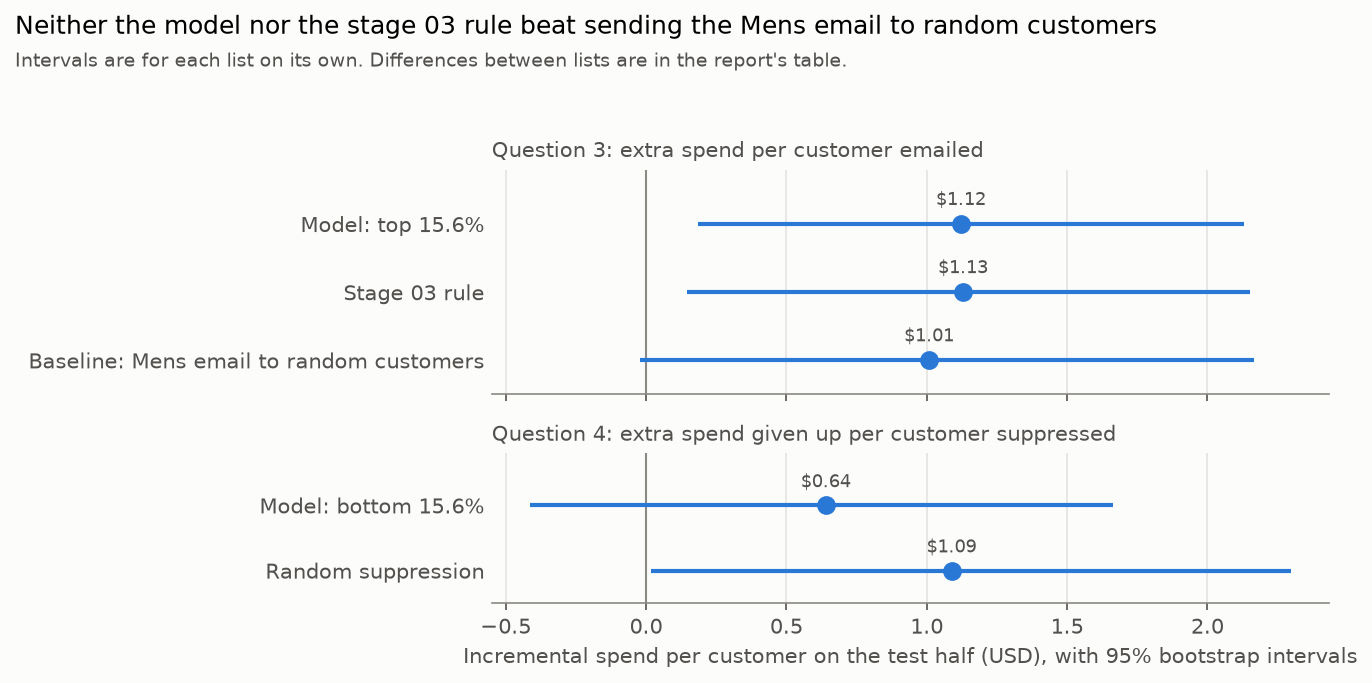
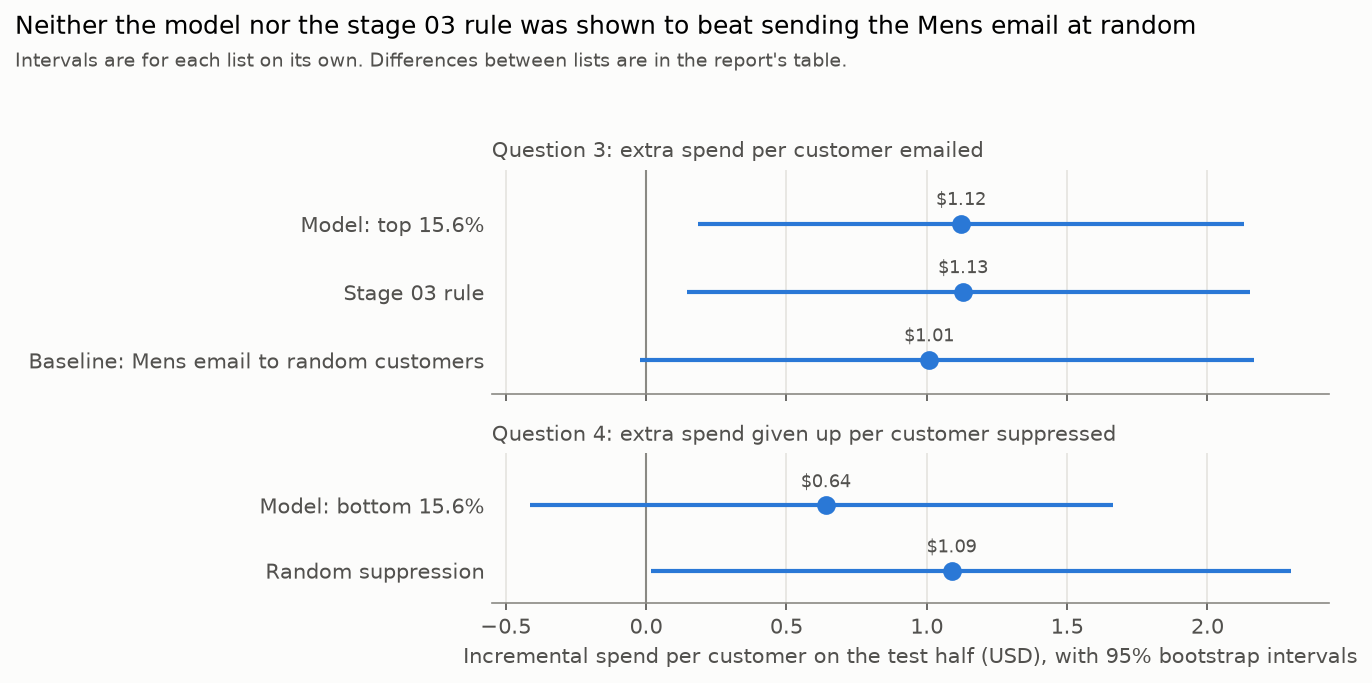
Re-examine and correct stage 03-04 reports before stage 05
Correct several documents: the stage 03-04 reports and notebooks,
one figure, the README and the decision log.

Changed region(s): [[0.3673, 0.0, 0.8878, 0.0615]]

diff --git a/reports/04_01_uplift_models.md b/reports/04_01_uplift_models.md
@@ -2,11 +2,11 @@
 
 ## Question
 
-Stage 03 built a targeting rule from two customer features, past-year spend and past purchases, and it did not beat sending the Mens email to a random 10,000 customers. **This stage asks whether a model that uses all seven pre-campaign features can do better.** It informs challenge questions 3 and 4, but is not one of the original questions.
+Stage 03 built a targeting rule from two customer features, past-year spend and past purchases, and it was not shown to beat sending the Mens email to a random 10,000 customers. **This stage asks whether a model that uses all seven pre-campaign features can do better.** It informs challenge questions 3 and 4, but is not one of the original questions.
 
 ## Approach
 
-Every choice below was **fixed before any model was fitted**. The reasons are summarized here; the dated discussion is in [`DECISIONS.md`](../DECISIONS.md) (2026-11-16), and the code is in [`notebooks/04_01_uplift_models.ipynb`](../notebooks/04_01_uplift_models.ipynb).
+Every choice below was **fixed before any model was fitted, but after the stage 03 results on the same test half had been seen** (see Limitations). The reasons are summarized here; the dated discussion is in [`DECISIONS.md`](../DECISIONS.md) (2026-11-16), and the code is in [`notebooks/04_01_uplift_models.ipynb`](../notebooks/04_01_uplift_models.ipynb).
 
 1. **Same customers as stage 03:** the same 50:50 split, the same random 10,000 baseline and the same measure, rebuilt by [`src/prepare.py`](../src/prepare.py). A check confirms that the stage 03 numbers are reproduced exactly.
 2. **Two estimates per customer:** each model estimates the extra outcome from the Mens email and from the Womens email, and each customer is assigned the email with the higher estimate, as in stage 03.
@@ -20,9 +20,9 @@ Every choice below was **fixed before any model was fitted**. The reasons are su
 
 ## Answer
 
-**No. The model did not beat sending the Mens email to random customers, so the simple choice is kept.** Its selected customers gained $1.12 each on the test half, against $1.01 for the baseline. **The difference, $0.11, has a 95% interval from -$1.15 to $1.32.** This comparison is limited by sample size: the test half could reliably detect only a difference of about $1.76 per customer.
+**Not shown. The model did not pass the threshold against sending the Mens email to random customers, so the simple choice is kept.** Its selected customers gained $1.12 each on the test half, against $1.01 for the baseline. **The difference, $0.11, has a 95% interval from -$1.15 to $1.32.** This comparison is limited by sample size: the test half could reliably detect only a difference of about $1.76 per customer.
 
-**The model performed almost exactly like the stage 03 rule, and this result does not depend on sample size.** The two gained $1.12 and $1.13. **The interval for their difference, -$0.53 to $0.52, rules out a difference larger than about $0.50 per customer in either direction.** The two lists share most of their customers, so this comparison is far more precise than the comparison with the baseline. Using all seven features, the model put every test customer who had bought both men's and women's merchandise at the top of its list, the cell the stage 03 rule had already ranked first.
+**The model and the stage 03 rule have almost the same estimate, but they are not shown to be equivalent.** The two gained $1.12 and $1.13. The lists share most of their customers, so this comparison is more precise than the one with the baseline, but it is still limited by sample size. **The interval for their difference, -$0.53 to $0.52, still allows a difference of about $0.50 in either direction, roughly two-thirds of the Mens email's average effect.** Using all seven features, the model's top 15.6% included every test customer who had bought both men's and women's merchandise, the cell the stage 03 rule had already ranked first.
 
 **The model's suppression list is the one result that points to a gain, but it is not confirmed.** Suppressing the model's bottom 15.6% gives up $0.64 per customer, against $1.09 for random suppression. The difference, $0.45, has an interval from -$0.91 to $1.90, and the test half could reliably detect only a difference of about $2.00. If a campaign ever has to leave customers out, this list would be worth testing in a new experiment (see below).
 
@@ -99,7 +99,7 @@ Scores are the incremental spend per selected customer within each held-out fold
 
 ## What this means
 
-- **For questions 3 and 4:** neither a two-feature rule nor a seven-feature model selected better customers than a random list. The recommendation from stage 03 stands: send the Mens email, and, since every cell cleared break-even, send it as widely as the budget allows.
+- **For questions 3 and 4:** neither a two-feature rule nor a seven-feature model was shown to select better customers than a random list. The recommendation from stage 03 stands: send the Mens email as widely as the budget allows. **This rests on its average effect across all customers** ($0.77, 95% CI $0.49 to $1.05, against a $0.02 break-even), not on evidence that it pays in every cell.
 - **For the business:** building and maintaining a targeting model would add cost without a demonstrated gain on this data.
 - **For stage 06:** the profit and sensitivity analysis uses the Mens email sent broadly as the main case.
 - **For a follow-up experiment:** the suppression list could be tested by randomizing email within two lists, the model's bottom 15.6% and a random 15.6%: half of each list receives the email and half does not. The difference between the two lists' email effects is the spend the model's list saves. **Detecting $0.45 per customer would need about 71,000 customers in each list, or a customer base of about 450,000,** roughly seven times this dataset. This is an approximation based on the overall standard deviation of spend.
@@ -107,7 +107,8 @@ Scores are the incremental spend per selected customer within each held-out fold
 ## Limitations
 
 - **Only two models were tried, with fixed settings.** Tuning or other methods might do better, but tuning on about 290 training buyers would itself risk fitting noise.
-- **The test half is small for comparisons with the baseline.** About 5,000 customers fall in each list, and only about a third of them received no email. A real gain smaller than about $1.76 per customer would likely go undetected. The comparison with the stage 03 rule is not limited in this way.
+- **The test half is small for comparisons with the baseline.** About 5,000 customers fall in each list, and only about a third of them received no email. A real gain smaller than about $1.76 per customer would likely go undetected. The comparison with the stage 03 rule is more precise, but it too could reliably detect only a difference of about $0.75.
+- **The test half was not untouched.** Its stage 03 results, including the effect in each cell, had been seen before this stage was designed, and they may have influenced the design. No stage 04 model was trained or selected on the test half, but **its result is not a fully independent confirmation**. That would need new data.
 - **The choice among the six combinations is uncertain.** Their cross-validation scores overlap heavily, so a different split could have chosen a different winner.
 - **The suppression result is a lead, not a finding.** Confirming it would need a new experiment that suppresses the model's list for some customers and a random list for others.
 - **The baseline is one random draw, outcomes cover two weeks, and the data is from 2008,** as in stage 03.

diff --git a/README.md b/README.md
@@ -9,8 +9,8 @@ An independent project that uses a public randomized experiment of 64,000 retail
 - **Both emails raised spend over the two weeks after the campaign:** by about $0.77 per customer for the Mens email and $0.42 for the Womens email ([average effects](reports/01_01_average_effects.md)).
 - **The Mens email outperformed the Womens email** on spend, visits and conversion. Its lead on spend is significant but imprecisely estimated.
 - **None of the six pre-specified segment hypotheses was supported** ([segment effects](reports/02_01_segment_effects.md)). The emails raised spend in almost every segment, and the data cannot show that they worked better in any of them.
-- **A first targeting rule did not beat sending the Mens email to a random 10,000 customers** on held-out data ([targeting rule](reports/03_01_targeting_rule.md)). Its top cell gained $2.27 per customer in training but $1.37 on the test half, a case of regression to the mean.
-- **Uplift models using all seven features did no better** ([uplift models](reports/04_01_uplift_models.md)). The chosen model selected largely the same customers as the first rule and performed within about $0.50 per customer of it.
+- **A first targeting rule was not shown to beat sending the Mens email to a random 10,000 customers** on held-out data ([targeting rule](reports/03_01_targeting_rule.md)). Its top cell gained $2.27 per customer in training but $1.37 on the test half, a case of regression to the mean.
+- **An uplift model using all seven features was not shown to do better either** ([uplift models](reports/04_01_uplift_models.md)). It selected largely the same customers as the first rule. Their estimates are almost equal, but a difference of about $0.50 per customer in either direction cannot be ruled out.
 
 ## Why this project
 
@@ -63,12 +63,12 @@ These are the original questions from the challenge, quoted verbatim. Answers wi
 | --- | --- | --- |
 | 1 | Which e-mail campaign performed the best, the Mens version, or the Womens version? | [The Mens email](reports/01_01_average_effects.md). Its lead over the Womens email is significant but imprecisely estimated. |
 | 2 | How much incremental sales per customer did the Mens version of the e-mail campaign drive? How much incremental sales per customer did the Womens version of the e-mail campaign drive? | [About $0.77 per customer for the Mens email and $0.42 for the Womens email](reports/01_01_average_effects.md), over two weeks. |
-| 3 | If you could only send an e-mail campaign to the best 10,000 customers, which customers would receive the e-mail campaign? Why? | Provisional: [send the Mens email; the data does not show which 10,000 would respond best](reports/03_01_targeting_rule.md). Neither a rule built from past-year spend and past purchases nor [an uplift model using all seven features](reports/04_01_uplift_models.md) beat a random 10,000 on held-out data. Stage 06 finalizes this answer. |
-| 4 | If you had to eliminate 10,000 customers from receiving an e-mail campaign, which customers would you suppress from the campaign? Why? | Provisional: [no list was shown to cost less to suppress than a random 10,000](reports/03_01_targeting_rule.md). Every customer cell cleared the break-even point under the assumed costs, so sending to more customers may pay more than suppressing any. [An uplift model's suppression list](reports/04_01_uplift_models.md) gave up $0.45 less per customer than random suppression, but this was not significant and would need a new experiment to confirm. |
+| 3 | If you could only send an e-mail campaign to the best 10,000 customers, which customers would receive the e-mail campaign? Why? | Provisional: [send the Mens email; the data does not show which 10,000 would respond best](reports/03_01_targeting_rule.md). Neither a rule built from past-year spend and past purchases nor [an uplift model using all seven features](reports/04_01_uplift_models.md) was shown to beat a random 10,000 on held-out data. Stage 06 finalizes this answer. |
+| 4 | If you had to eliminate 10,000 customers from receiving an e-mail campaign, which customers would you suppress from the campaign? Why? | Provisional: [no list was shown to cost less to suppress than a random 10,000](reports/03_01_targeting_rule.md). Under the assumed costs, the Mens email's average effect is well above break-even, so suppressing customers at random gives up profit on average. This is not shown for every group: on the test half, six of seven customer cells are uncertain. [An uplift model's suppression list](reports/04_01_uplift_models.md) gave up $0.45 less per customer than random suppression, but this was not significant and would need a new experiment to confirm. |
 | 5 | Did the Mens version of the e-mail campaign perform different than the Womens version of the e-mail campaign, across various customer segments? | Partly: [the two emails showed different patterns](reports/02_01_segment_effects.md). The Mens email raised spend for both men's and women's buyers, while the Womens email's extra visits and purchases were concentrated among women's buyers. This contrast was not tested directly. |
 | 6 | Did the campaigns perform different when measured across different metrics, like Visitors, Conversion, and Total Spend? | [Yes, for the Womens email](reports/02_01_segment_effects.md): it raised visits and conversion more among women's buyers, but the difference in spend was not significant. The visit and conversion results are supporting evidence, because secondary metrics are not corrected for multiple testing. |
 | 7 | Did you observe any anomalies, or odd findings? | Partly answered: [spend stops at exactly $499 for 12 buyers](reports/00_01_eda_summary.md), which may indicate a cap, and [no customer under $200 of past-year spend bought both men's and women's merchandise](reports/00_01_eda_summary.md). The causes are unknown. |
-| 8 | Which audience would you target the Mens version to, and the Womens version to, given the results of the test? What data do you have to support your recommendation? | Provisional: [send the Mens email broadly](reports/02_01_segment_effects.md). If the Womens email is used, send it to customers who bought women's merchandise, where its extra visits and purchases were concentrated. [Stage 03](reports/03_01_targeting_rule.md) found no segment rule that beat sending the Mens email at random. The final rule, with costs and margins, comes from stage 06. |
+| 8 | Which audience would you target the Mens version to, and the Womens version to, given the results of the test? What data do you have to support your recommendation? | Provisional: [send the Mens email broadly](reports/02_01_segment_effects.md). If the Womens email is used, send it to customers who bought women's merchandise, where its extra visits and purchases were concentrated. [Stage 03](reports/03_01_targeting_rule.md) did not show that its segment rule beats sending the Mens email at random. The final rule, with costs and margins, comes from stage 06. |
 
 ## Progress
 

diff --git a/reports/03_01_targeting_rule.md b/reports/03_01_targeting_rule.md
@@ -25,13 +25,13 @@ Every choice below was **fixed before the rule was evaluated on held-out data**.
 
 ## Answers
 
-**The emails pay off, and sending the Mens email broadly works as well as any segment rule tested.** The rule did not pass its threshold for either question, so the recommendation falls back to the baseline.
+**The Mens email pays off on average, and the segment rule was not shown to target better than sending it at random.** The rule did not pass its threshold for either question, so the recommendation falls back to the baseline.
 
 **Question 3: send the Mens email. The data does not show which 10,000 customers would respond best.** The rule selected all 6,448 customers with $200 or more of past-year spend who bought both lines, plus 3,552 of those with $200 or more who bought only women's merchandise. On the test half, they gained $1.13 each, against $1.01 for a random 10,000 sent the Mens email. **The difference, $0.12, has a 95% interval from -$1.25 to $1.43, so the rule is not shown to be better.** It is not shown to be worse either: the test half is too small to separate differences this small.
 
 **Question 4: no list of 10,000 was shown to cost less to suppress than a random 10,000.** The rule's list was 10,000 of the 10,178 customers with $200 or more of past-year spend who bought only men's merchandise, where the Mens email's training estimate was lowest ($0.11). On the test half, suppressing them gave up $0.57 per customer, against $1.13 for random suppression, but **the interval for the difference runs from -$1.03 to $2.27**. If customers must be suppressed, random suppression is as well supported as any list tested.
 
-**Sending to more customers may pay more than suppressing any.** Every cell's test estimate is above the $0.02 per customer needed to cover an email, at the assumed 40% margin and $0.008 per email. These costs are assumptions, and stage 06 tests other values.
+**The case for sending broadly rests on the average effect, not on each cell.** Across all customers, the Mens email added $0.77 per customer (95% CI $0.49 to $1.05, [stage 01](01_01_average_effects.md)), which is above the $0.02 needed to cover an email at the assumed 40% margin and $0.008 per email. Suppressing customers at random would therefore give up profit on average. **This does not show that every cell is worth emailing: on the test half, one of the seven cells is worth sending and six are uncertain.** All seven point estimates are above $0.02, but six of the intervals include it. The costs are assumptions, and stage 06 tests other values.
 
 ## Results on the test half
 
@@ -50,15 +50,17 @@ The baseline's $1.01 is above the Mens email's overall effect of $0.77 in [stage
 
 ## Why the rule did not hold up
 
-| Training rank | Cell | Email | Training effect | Test effect (95% CI) |
-| ---: | --- | --- | ---: | --- |
-| 1 | $200 or more, both | Mens | +$2.27 | +$1.37 (-$0.03 to $2.78) |
-| 2 | $200 or more, women's only | Mens | +$1.56 | +$0.67 (-$0.06 to $1.41) |
-| 3 | $100-$200, men's only | Mens | +$1.47 | +$0.05 (-$0.76 to $0.86) |
-| 4 | Under $100, men's only | Mens | +$0.84 | +$1.01 ($0.18 to $1.84) |
-| 5 | Under $100, women's only | Womens | +$0.70 | +$0.89 (-$0.09 to $1.86) |
-| 6 | $100-$200, women's only | Mens | +$0.42 | +$0.89 (-$0.04 to $1.83) |
-| 7 | $200 or more, men's only | Mens | +$0.11 | +$0.57 (-$0.81 to $1.94) |
+| Training rank | Cell | Email | Training effect | Test effect (95% CI) | Test category |
+| ---: | --- | --- | ---: | --- | --- |
+| 1 | $200 or more, both | Mens | +$2.27 | +$1.37 (-$0.03 to $2.78) | Uncertain |
+| 2 | $200 or more, women's only | Mens | +$1.56 | +$0.67 (-$0.06 to $1.41) | Uncertain |
+| 3 | $100-$200, men's only | Mens | +$1.47 | +$0.05 (-$0.76 to $0.86) | Uncertain |
+| 4 | Under $100, men's only | Mens | +$0.84 | +$1.01 ($0.18 to $1.84) | Worth sending |
+| 5 | Under $100, women's only | Womens | +$0.70 | +$0.89 (-$0.09 to $1.86) | Uncertain |
+| 6 | $100-$200, women's only | Mens | +$0.42 | +$0.89 (-$0.04 to $1.83) | Uncertain |
+| 7 | $200 or more, men's only | Mens | +$0.11 | +$0.57 (-$0.81 to $1.94) | Uncertain |
+
+Categories follow [`DECISIONS.md`](../DECISIONS.md) (2026-11-06): worth sending if the lower end of the interval is above the $0.02 break-even, uncertain if the estimate is above it but the interval includes it.
 
 ![Training and test estimates for each cell, showing the top three falling and the other four rising on the test half](figures/targeting_train_vs_test.png)
 
@@ -69,7 +71,7 @@ The baseline's $1.01 is above the Mens email's overall effect of $0.77 in [stage
 ## What this means for later stages
 
 - **Stage 04:** the uplift models can use every pre-campaign feature, but they face the same bar. They must beat the Mens email sent to a random 10,000 on this test half.
-- **Stage 06:** the finding that every cell clears break-even depends on the assumed margin and cost per email, so it is tested across other values.
+- **Stage 06:** whether the average effect, and each cell's effect, clears break-even depends on the assumed margin and cost per email, so both are tested across other values.
 
 ## Limitations
 

diff --git a/DECISIONS.md b/DECISIONS.md
@@ -174,3 +174,13 @@ These choices for the stage 04 uplift models were fixed before any model was fit
 ### The stage 02 memo is merged into the final decision memo
 - **Context:** the plan called for a one-page memo after the segment effects. By stage 04, the conclusions for a manager had grown to cover stages 01 to 04.
 - **Decision: one decision memo after stage 06, in place of a separate stage 02 memo.** Claude suggested merging them and I agreed, so that a manager reads one recommendation with the profit and sensitivity results.
+
+## 2026-11-22
+
+### Five corrections to stages 03 and 04
+- **What happened:** I approved the stage 03 and 04 commits without first reviewing the standards Claude had applied. When Claude re-checked them before stage 05, it found that it had judged break-even by point estimates alone, along with four other errors in text it had drafted. I asked for all five to be corrected. No estimate, interval or list changed.
+- **Break-even was overstated.** The reports, the notebook and the README presented every cell as clearing break-even, based on point estimates alone. **Under the rule of 2026-11-06, one of the seven test cells is worth sending and six are uncertain.** The case for sending broadly now rests on the Mens email's average effect, and the stage 03 notebook computes each test category.
+- **The role of sample size was misstated.** Stage 04 said that the similarity between the model and the stage 03 rule did not depend on sample size. I had suggested this framing, and Claude agreed and wrote it. **It was wrong: the interval still allows a difference of about $0.50 per customer, and the smallest reliably detectable difference is about $0.75.**
+- **"Not shown to be better" was worded as "equal" or "no better".** The stage 03 report said that sending broadly "works as well as" the rule, and similar wording appeared in stage 04 and the README. **These statements now say that no tested rule or model was shown to be better.**
+- **A finding was attributed to stage 03 that it did not make.** The stage 04 notebook said stage 03 found that customers who bought both lines respond strongly to email. **The sentence is removed:** that cell was uncertain in both halves.
+- **The stage 04 test was described as confirmatory without a caveat.** The entry of 2026-11-16 called it "one confirmatory result", but the stage 03 results on the same test half had been seen before stage 04 was designed. **It is not a fully independent confirmation.** The earlier entry is left as written, and this entry corrects it.
